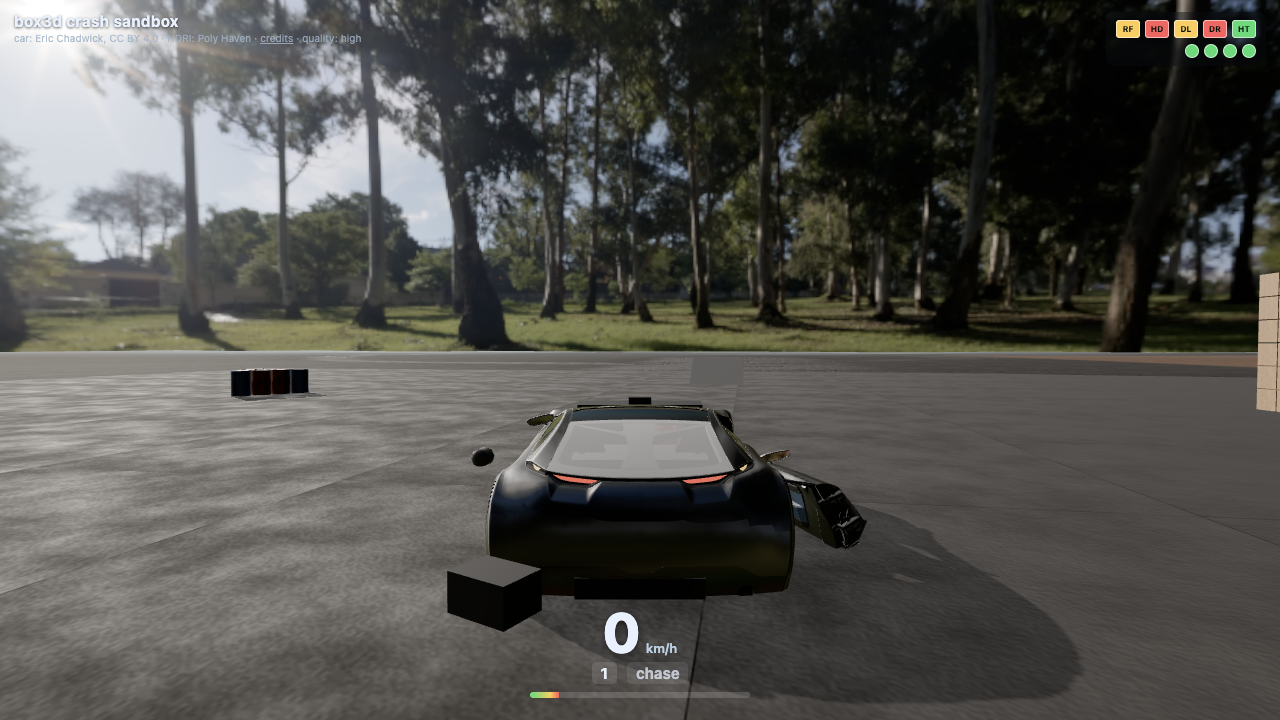
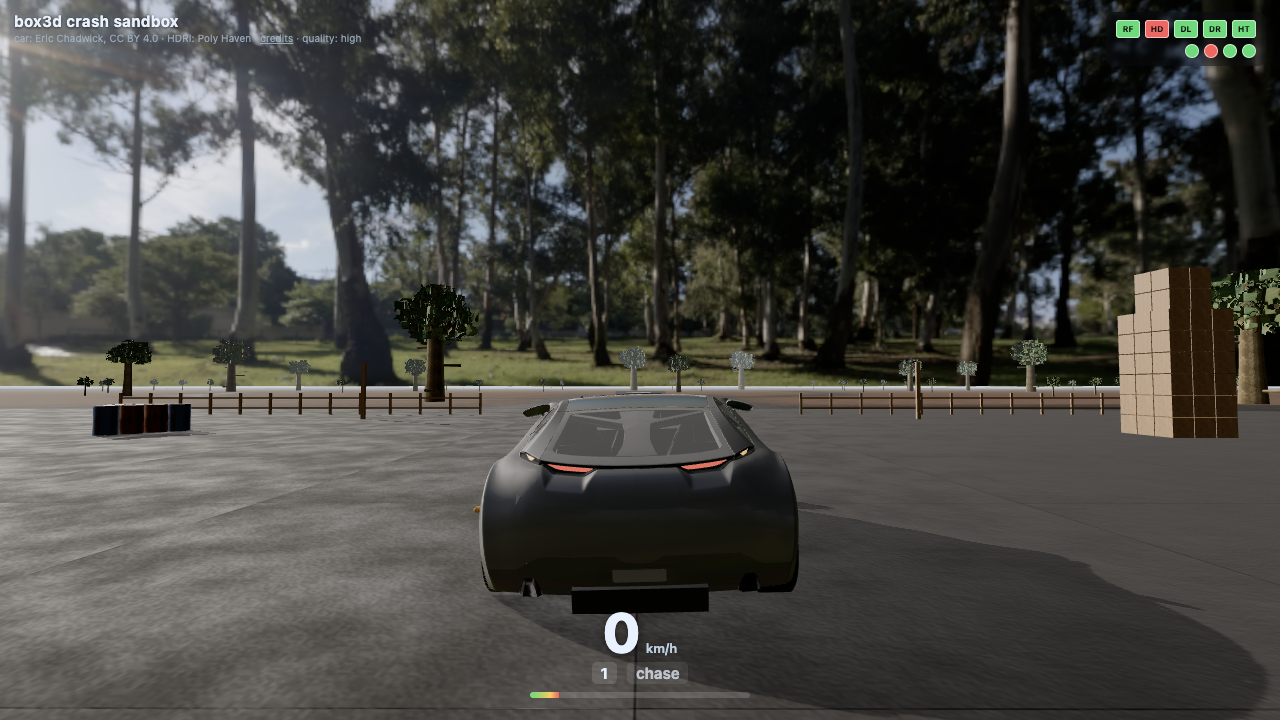
Ledger: closeout wave results + car-swap wave dispatch

diff --git a/docs/build-log/PLAN-3.md b/docs/build-log/PLAN-3.md
@@ -66,4 +66,24 @@ NEVER cut: reset integrity, camera, suspension feel, terrain.
 | W-ragdoll | Active ragdolls (brace/eject-through-glass/self-preserve) | **opus** (animation specialist) | dispatched | | |
 | W3a | Terrain: 400×400m heightfield world (dirt, potholes, forest zone) | **opus** | dispatched | | |
 
+| W3a | Terrain 400×400m heightfield world | opus | **done** | 400,816 | commit 475cd1a: 5 zones, apron slope 0.46°, PBR splat + forest HDRI + fog + sun-follow; 119.9fps/0.43ms held; 105/105. Residual: cone-trees clash (→ visual wave). |
+| W-ragdoll | Active ragdolls v1 | opus | **done** | 399,397 | commit 6ea8a7f: torque-limited muscles, 65g life/death, glass-shatter ejection, staged collision re-enable, FSM w/ disclosed kinematic assist. USER FOUND 4 DEFECTS → ragdoll-2 at FABLE per ladder. |
+| W3b | Visual wave: trees/enginebay/paint | sonnet ×3 | in flight | | |
+| USER-PT2 | User playtest round 2 (5 screenshots) | — | triaged | | Findings: slammed ride height + wheel-fender intersect (laden weight vs bare-sim tuning); ragdolls twitchy/instant-eject/floaty-stand/Shift+R phase; 80km/h crumple unrealistic + doors detach on frontals; wood no splinter, barrels no dent, brick blob, eternal spin (rolling resistance unwired), mass/dims truth; compound feel + bigger terrain. |
+| W4 wave | ragdoll-2 (FABLE) · crash-realism refs (opus) · materials-truth (opus) · ride-height (opus) · compound+800m (opus) | fable+opus×4 | dispatched | | wf_4f683d6c-eb2; crash worker mandated to source public IIHS/NHTSA reference imagery + build top/side/quarter comparison harness (user method). |
+
+| W5-research | Engine-max deep dive: exhaustive coverage audit + car/destruction-sim technique map | opus ×2 | dispatched | | wf_7293cb6a-fcb; user directive: "maximize every true-to-life physics detail" — outputs ranked wiring roadmap specs |
+| W4b-queued | Airborne truth round 3 (FABLE xhigh→max): half-on-ramp launch self-levels — anti-roll assist kills ramp-imparted roll rate w/ 2 wheels grounded + authority bleed into flight; kicker test only covered symmetric pitch. Judgment call: attempt full assist RETIREMENT (their original justifications — broken suspension, panel drag — are fixed). BLOCKED on ride-height worker releasing vehicle/** | fable | queued | | |
+
+| W3b | Visual wave: trees/enginebay/paint | sonnet ×3 | **done** | 941,143 | trees 03ab524 (real bark PBR + photo leaf-cards, 0 draw-call delta, +0.11% tris); enginebay 062f4b3 (39 shaped builders — ribbed block, spiral turbo, finned cores, tube hoses; +16.7% calls, containment preserved); paint 783951c (MeshPhysical black w/ clearcoat outdoors, occupants visible thru glass, transmission dropped after root-causing SwiftShader nondeterminism → -38% draw calls at high). Orchestrator eyes-on: forest reads as forest; bay reads as machinery. Residual: feature-trees.mjs targets stale post-relocation; resetWorld lighting perturbation (pre-existing, noted). |
+| W5-research | Engine-max deep dive | opus ×2 | **done** | 262,068 | eb6524a coverage (~70/330 fns wired; zero-wired: sensor/contact-begin-end events, casts, CastMover, Explode, GetContactData, compound, wind, 4 joint types; ranked top-12) + ea2c798 domain map (at FlatOut/Wreckfest tier; #1 structural-collapse graph on existing weld lattice; tire-model + soft-body ceilings documented w/ sources). Correction: rollingResistance wired-at-creation, never SET. |
+| USER-PT3 | User: plank hits devastate car (mass not in damage eq — approachSpeed heuristic confirmed root cause); Tier-3 compound hull APPROVED; soft-body question answered (rigid engine; crush-segment architecture = honest ceiling path) | — | triaged | | impulse-based damage promoted into Tier-1 wave |
+| SHIMEXT-2 | Wire contact begin/end + userMaterialId + Explode + surface/mesh materials + runtime setters | sonnet | **done** | 345,275 | commit ae702b4: all 5 areas wired incl. per-triangle mesh/heightfield materials (terrain zones can differ in friction/rolling-resistance per triangle) + ExplosionDef full surface; 5 new test files/14 tests, root 20 files/37 green, verify-dist green, wasm +8.2KB (491.6KB). Deviation documented: hit-event userMaterialId truncated to 32-bit (shim convention); 64-bit at creation. Still unwired (next SHIMEXT if Tier-2 demands): sensor events, CastShape/Overlap, prismatic/motor joints, wind, compound. |
+
+| W4 wave | Realism wave results | fable+opus×4 | **done** (4/5) | 1,273,577 | ragdoll-2 (FABLE) 2ab4cec: jitter=PD divergence (kd 7× stability bound; idle RMS 24→0.0001 rad/s via solver springs), ejection gated (30km/h=0), ground-raycast stands, 7-state reset test. crash 5261753: crumple was displacing along INVERTED normal (nose bulged toward wall!); direction-aware door welds (lateral-only per FMVSS-206), speed-scaled inward crush, IIHS/NHTSA reference spec + top/side/3q matrix. materials f5c17f6..a9dc316: brick was styrofoam-density (162→2654 kg/m³); rollingResistance is spheres/capsules-only upstream → angular damping for boxes; masonry cracks crisp; shed reset fixed. ride-height fcd5490: laden car properly seated. COMPOUND SLICE FAILED CLEAN: worker received corrupted prompt (code-review template cross-wire), refused correctly, zero changes — re-dispatched. Cross-worker breakage found at combined HEAD: crush monotonicity (80km/h 0.31m < 64km/h 0.44m — calibrated pre-ride-height). Deferred by materials worker: wood mid-span splinter geometry, barrel vertex-dent (spec'd §8). |
+| W6 wave | crush-recal (sonnet) + compound-world-2 (opus) + airborne-truth-3 (FABLE: assist retirement + asymmetric-launch flip test) | mixed | dispatched | | wf_b6c004c9-1c0 |
+
+| W6 wave | Closeout results | mixed | **done** | 839,810 | crush 050f41b: NOT probe/tuning — intra-step ordering (weld broke hood before crumple consumed same hit → most energetic hit dropped); crumple now runs first; monotonic 0.236/0.442/0.535/0.580m. compound 03992cc: 800m/512² grid, forest RING encloses fenced yard (158 trees), gate+driveway (north — documented call), buildings ring yard, poles = drive lights; perf green. airborne e037bff (FABLE rnd 3): assist retirement MEASURED — original justifications gone (battery passes all-off) but crash suites genuinely need: yaw FULL, anti-pitch FULL, anti-roll measured-minimum HALF (attribution numbers in tuning.ts); authority: ≥3 wheels + upDot plausibility, INSTANT cut on contact loss, landing-only ramp; asymmetric-launch test: 0 in-flight authority, monotonic 63/110/197° roll, browser: 59.7km/h half-on → lands ON ROOF w/ occupant ejecting. Laden flip threshold ~60 vs unladen ~40km/h (honest mass effect). |
+| W7 wave | Mustang swap (opus, CC-BY verified, engine included) + destruction-feel speed recal (sonnet: 120km/h scenario under-runs speed post-relocation) | opus+sonnet | dispatched | | wf_b50f1ec3-c26; Impala staged as fallback |
+
 ## Pass log
